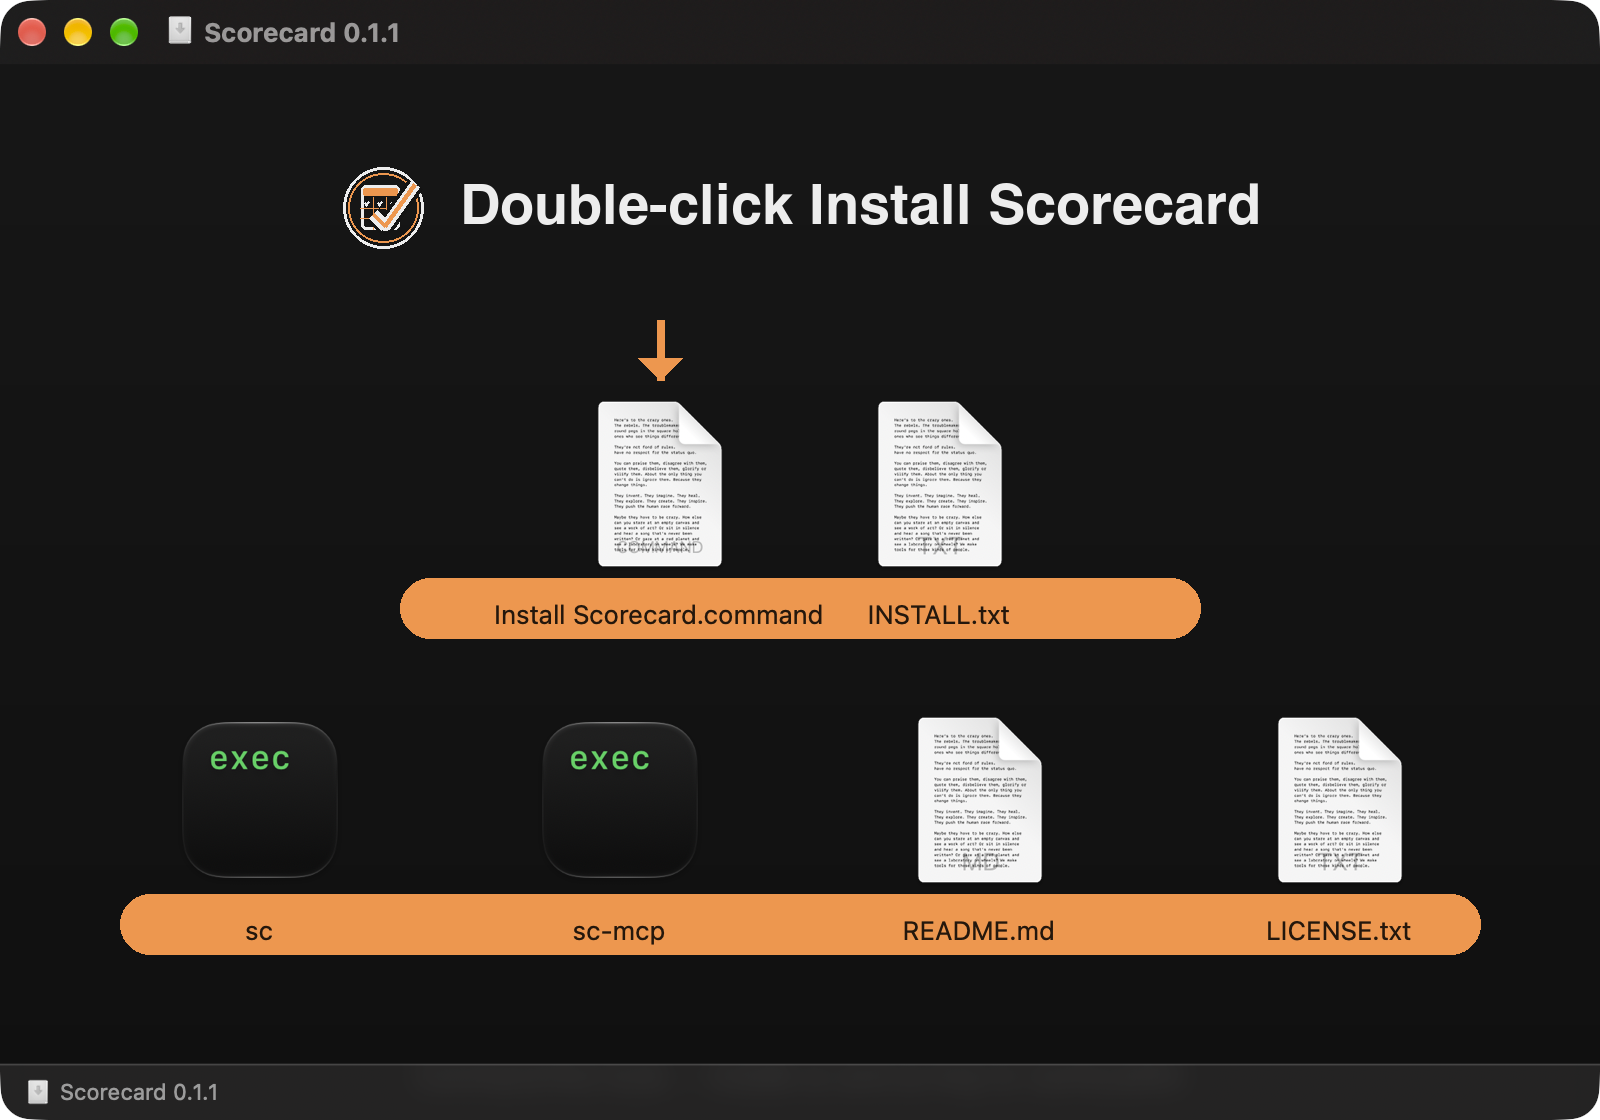
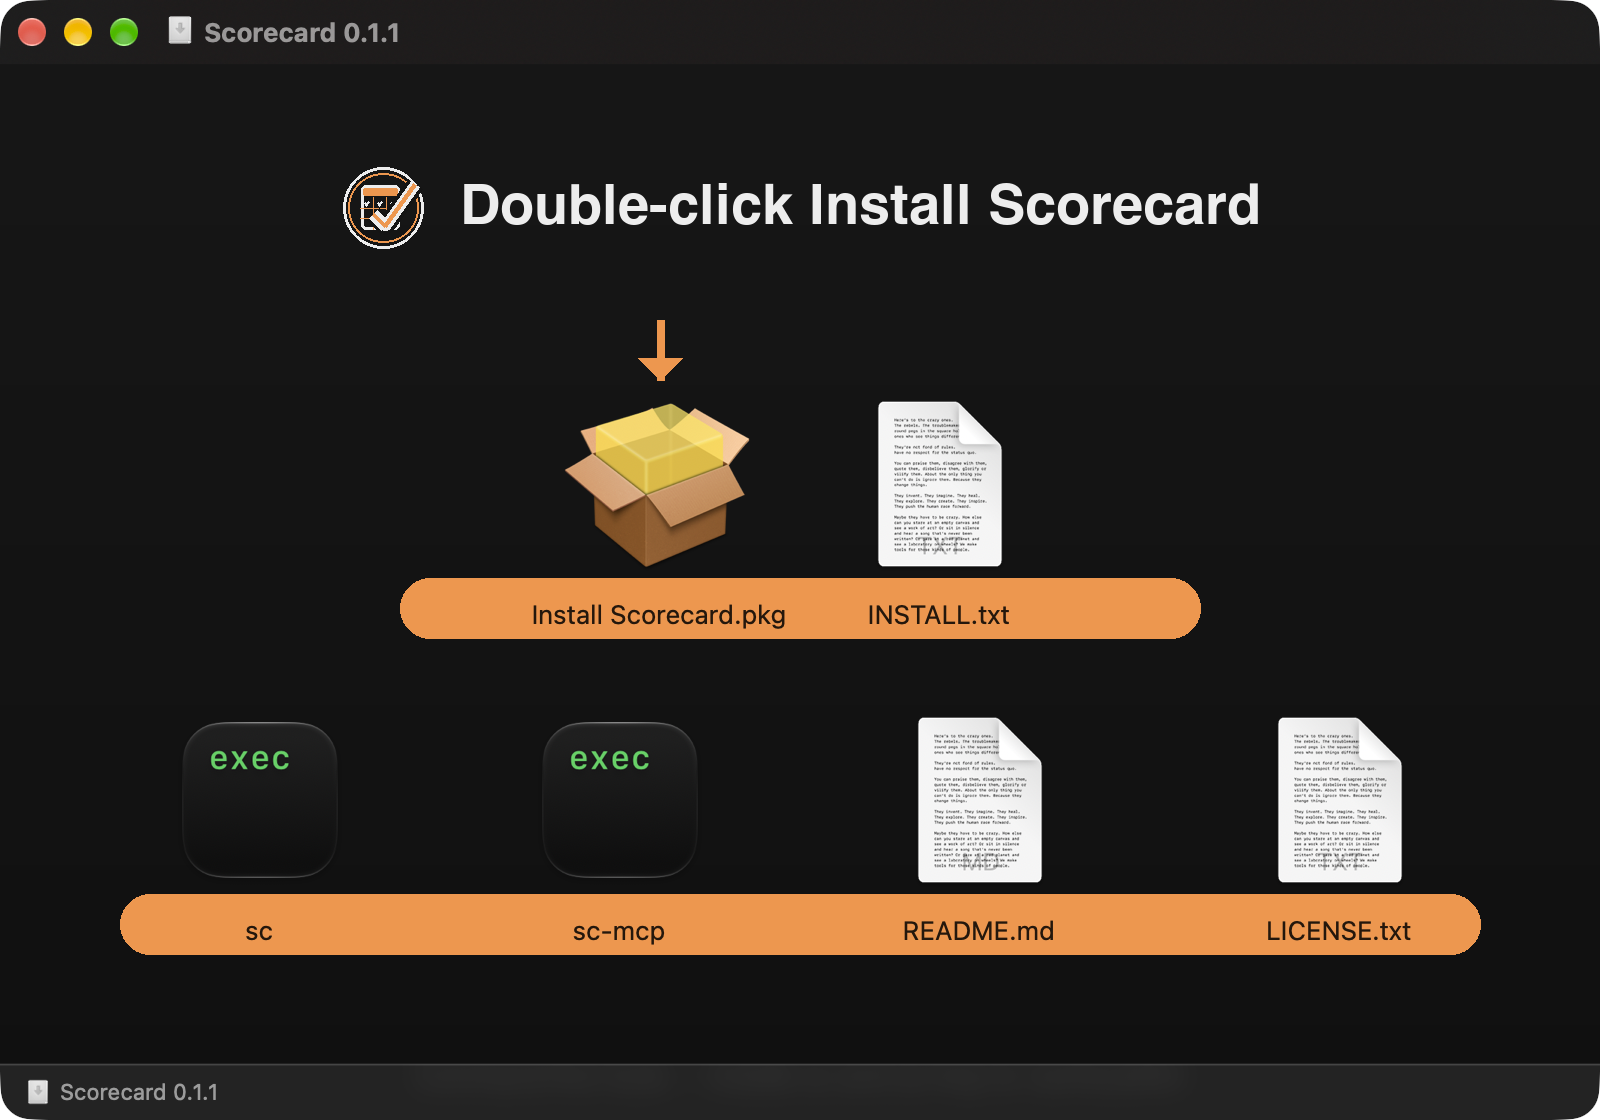
Replace the DMG installer script with a signed notarized pkg

Changed region(s): [[0.3125, 0.3438, 0.5312, 0.5625]]

diff --git a/packaging/dmg-settings.py b/packaging/dmg-settings.py
@@ -21,7 +21,7 @@ filesystem = "HFS+"
 size = None
 
 files = [os.path.join(stage, name) for name in (
-    "Install Scorecard.command",
+    "Install Scorecard.pkg",
     "INSTALL.txt",
     "sc",
     "sc-mcp",
@@ -45,7 +45,7 @@ show_pathbar = False
 show_sidebar = False
 
 icon_locations = {
-    "Install Scorecard.command": (330, 210),
+    "Install Scorecard.pkg": (330, 210),
     "INSTALL.txt": (470, 210),
     "sc": (130, 368),
     "sc-mcp": (310, 368),

diff --git a/README.md b/README.md
@@ -10,7 +10,7 @@
 
 Release [v0.1.0](https://github.com/moonbase2090/Scorecard/releases/tag/v0.1.0).
 
-macOS, Apple silicon and Intel in one disk image: [sc-v0.1.0-universal-apple-darwin.dmg](https://github.com/moonbase2090/Scorecard/releases/download/v0.1.0/sc-v0.1.0-universal-apple-darwin.dmg).
+macOS, Apple silicon and Intel in one disk image: [sc-v0.1.0-universal-apple-darwin.dmg](https://github.com/moonbase2090/Scorecard/releases/download/v0.1.0/sc-v0.1.0-universal-apple-darwin.dmg). Double-click `Install Scorecard.pkg` inside it, or download the package directly: [sc-v0.1.0-macos.pkg](https://github.com/moonbase2090/Scorecard/releases/download/v0.1.0/sc-v0.1.0-macos.pkg). Both install `sc` and `sc-mcp` to `/usr/local/bin`.
 
 Each `.tar.gz` contains `sc`, `sc-mcp`, `LICENSE`, and `README.md` at the top of the archive.
 
